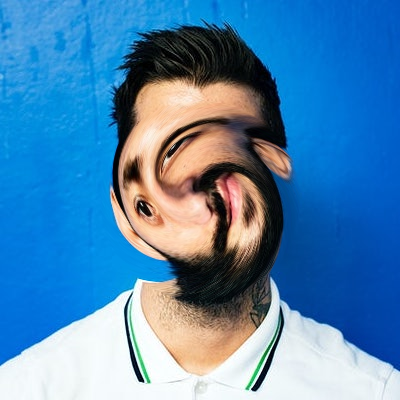
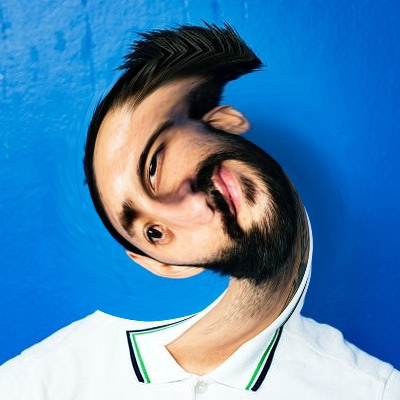
problem4.3

Changed region(s): [[0.18, 0.12, 0.87, 0.87]]

diff --git a/Problem1.py b/Problem1.py
@@ -366,14 +366,67 @@ def problem3(img_name,blur_amount):
         cv2.waitKey(0)
     cv2.destroyAllWindows()
 
+def lowpassfilter():
+    image = cv2.imread('./face2.jpg',0)
+    if not image is None:
+        image=image.astype(np.uint8)
+        cv2.imshow('Original Image',image)
+        rows,cols = image.shape
+        center_x = cols//2
+        center_y = rows//2
+        image = image.astype(np.float32)
+        ###pre-filtering, low-pass filtering######
+        K=0.9###cut-off distance (radius) from the Fourier image origin
+        fft_img = np.fft.fft2(image)
+        fft_img = np.fft.fftshift(fft_img)
+        H = np.ones((rows,cols))
+        for x in range(rows):
+            for y in range(cols):
+                #math.sqrt(x**2+y**2)
+                #math.exp(-((x-center_x)**2+(y-center_y)**2)/(2*4**2))
+                
+                if math.exp(-((x-center_x)**2+(y-center_y)**2)/(2*4**2))<=K:
+                    H[x,y]=1
+                else:
+                    H[x,y]=0
+        fft_img =H*fft_img
+        fft_img=np.fft.ifftshift(fft_img)
+        image = np.fft.ifft2(fft_img)
+        image = np.real(image)
+        image=image.astype(np.uint8)
+        cv2.imshow('LPF image',image)
+        cv2.waitKey(0)
+    cv2.destroyAllWindows()
+
 def problem4(img_name,strength_swirl,radius_swirl):
     img = cv2.imread(img_name,cv2.IMREAD_COLOR)
     if not img is None:
+        img=img.astype(np.uint8)
+        original_img = img.copy()
+        cv2.imshow('Original Image',img)
         rows,cols,channels = img.shape
-        #img = img.astype(np.float32)
-        img_copy = img.copy()
         center_x = cols//2
         center_y = rows//2
+        '''
+        #img = img.astype(np.float32)
+        ###pre-filtering, low-pass filtering######
+        img_b,img_g,img_r = cv2.split(img)
+        images=[img_b,img_g,img_r]
+        K=50 ###cut-off distance (radius) from the Fourier image origin
+        for image in images:
+            fft_img = np.fft.fft2(image)
+            fft_img = np.fft.fftshift(fft_img)
+            for x in range(rows):
+                for y in range(cols):
+                    if math.sqrt(x**2+y**2)>K:
+                        fft_img[x,y]=0
+            fft_img=np.fft.ifftshift(fft_img)
+            image = np.fft.ifft2(fft_img)
+            image = np.real(image)
+        img = cv2.merge((img_b,img_g,img_r))
+        img=img.astype(np.uint8)
+        cv2.imshow('LPF image',img)'''
+        img_copy = img.copy()
         for x in range(rows):
             for y in range(cols):
                 norm_x = x-center_x
@@ -408,12 +461,52 @@ def problem4(img_name,strength_swirl,radius_swirl):
                         print(norm_x,norm_y)
                         continue
                     img_copy[x,y]=1/((x_2-x_1)*(y_2-y_1))*(f_1+f_2+f_3+f_4)
-                    ###############################################
-        img=img.astype(np.uint8)
-        cv2.imshow('Original Image',img)
+                    ###############################################      
         img_copy=img_copy.astype(np.uint8)
         cv2.imshow('Swirl Image',img_copy)
-        cv2.imwrite('swirl_image_nn.png',img_copy)
+        img = img_copy.copy()
+        #cv2.imwrite('swirl_image_bilin.png',img_copy)
+        #######image warp inverse transformation######
+        for x in range(rows):
+            for y in range(cols):
+                norm_x = x-center_x
+                norm_y = y-center_y
+                r = math.sqrt((norm_x**2)+(norm_y**2)) #distance from center of img
+                if norm_x==0:
+                    norm_x=0.001
+                theta = math.atan(norm_y/norm_x) #angle from center of img
+                if x<center_x:
+                    theta+=math.pi
+                strength_swirl_change = 1-(r/radius_swirl)
+                if(strength_swirl_change>0):
+                    angle = -strength_swirl*strength_swirl_change*math.pi*2
+                    theta += angle
+                    #####nearest neighbour interpolation######
+                    #norm_x = int(r*math.cos(theta)+0.5)
+                    #norm_y = int(r*math.sin(theta)+0.5)
+                    #img_copy[x,y]= img[norm_x+center_x,norm_y+center_y]
+                    ##########################################
+                    #####bilinear interpolation#################
+                    norm_x = r*math.cos(theta)+center_x
+                    norm_y = r*math.sin(theta)+center_y
+                    x_1=math.floor(norm_x)
+                    y_1=math.floor(norm_y)
+                    x_2=math.ceil(norm_x)
+                    y_2=math.ceil(norm_y)
+                    f_1=img[x_1,y_1]*(x_2-norm_x)*(y_2-norm_y)
+                    f_2=img[x_2,y_1]*(norm_x-x_1)*(y_2-norm_y)
+                    f_3=img[x_1,y_2]*(x_2-norm_x)*(norm_y-y_1)
+                    f_4=img[x_2,y_2]*(norm_x-x_1)*(norm_y-y_1)
+                    if x_2==x_1 or y_2==y_1:
+                        print(norm_x,norm_y)
+                        continue
+                    img_copy[x,y]=1/((x_2-x_1)*(y_2-y_1))*(f_1+f_2+f_3+f_4)
+                    ###############################################      
+        img_copy=img_copy.astype(np.uint8)
+        cv2.imshow('Back to original',img_copy)
+        subtraction_img = original_img-img_copy
+        #subtraction_img=cv2.subtract(original_img,img_copy)
+        cv2.imshow('Difference between original and unswirled img',subtraction_img)
         cv2.waitKey(0)
     cv2.destroyAllWindows()
 
@@ -421,4 +514,4 @@ def problem4(img_name,strength_swirl,radius_swirl):
 #problem2('./face1.jpg',0.8,'coloured pencil')
 #problem3('./face1.jpg',0.7)
 problem4('./face2.jpg',-0.4,150)
-
+#lowpassfilter()
